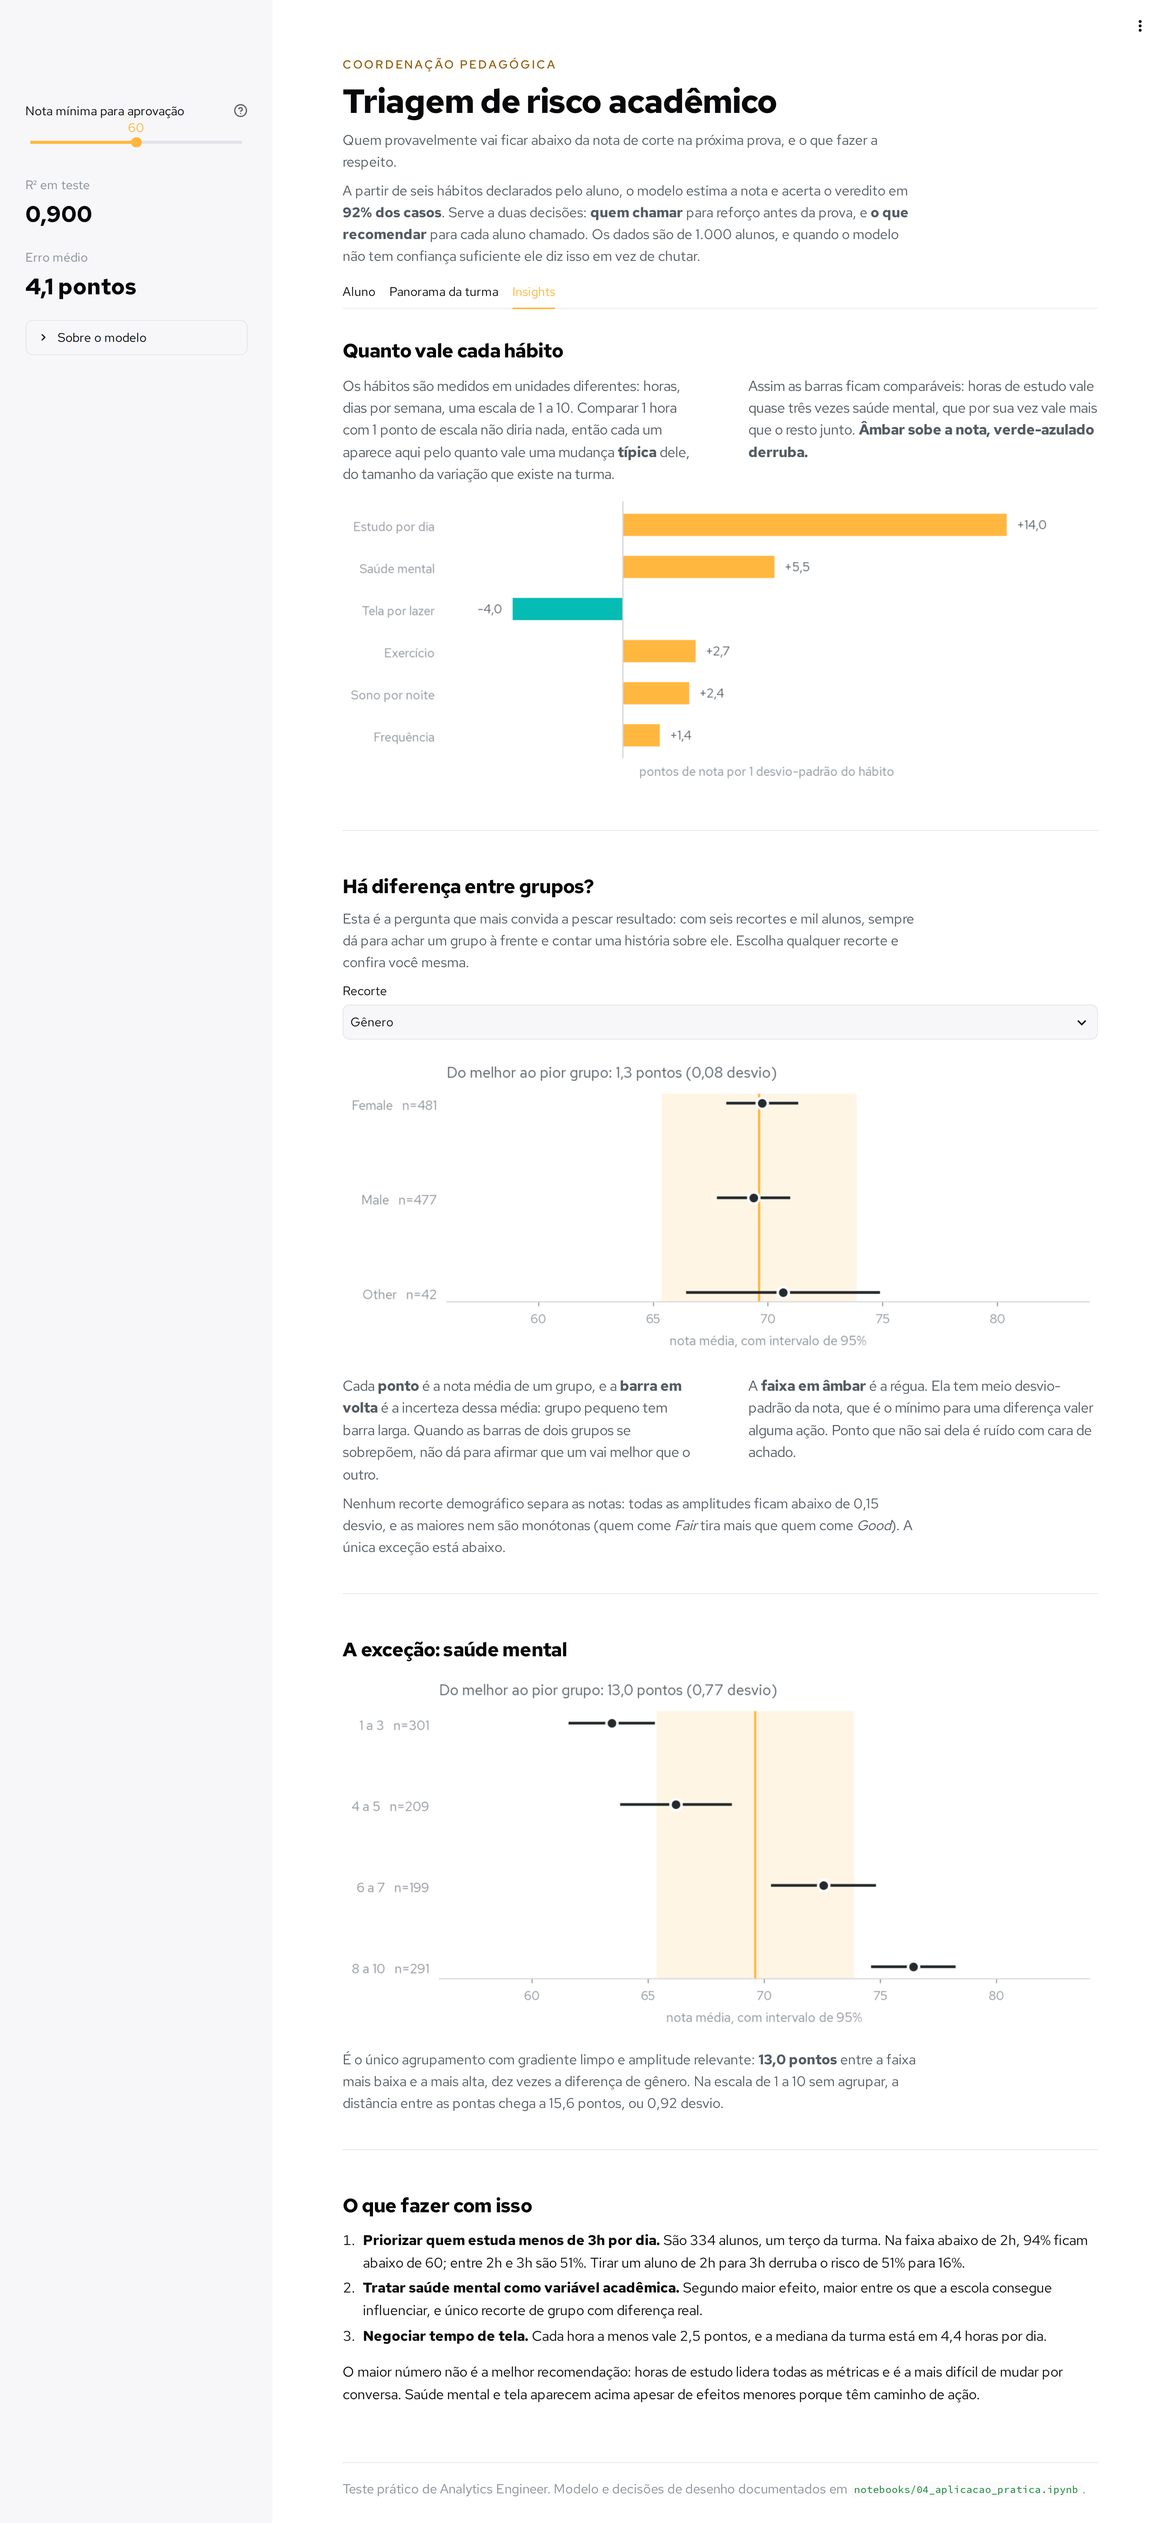
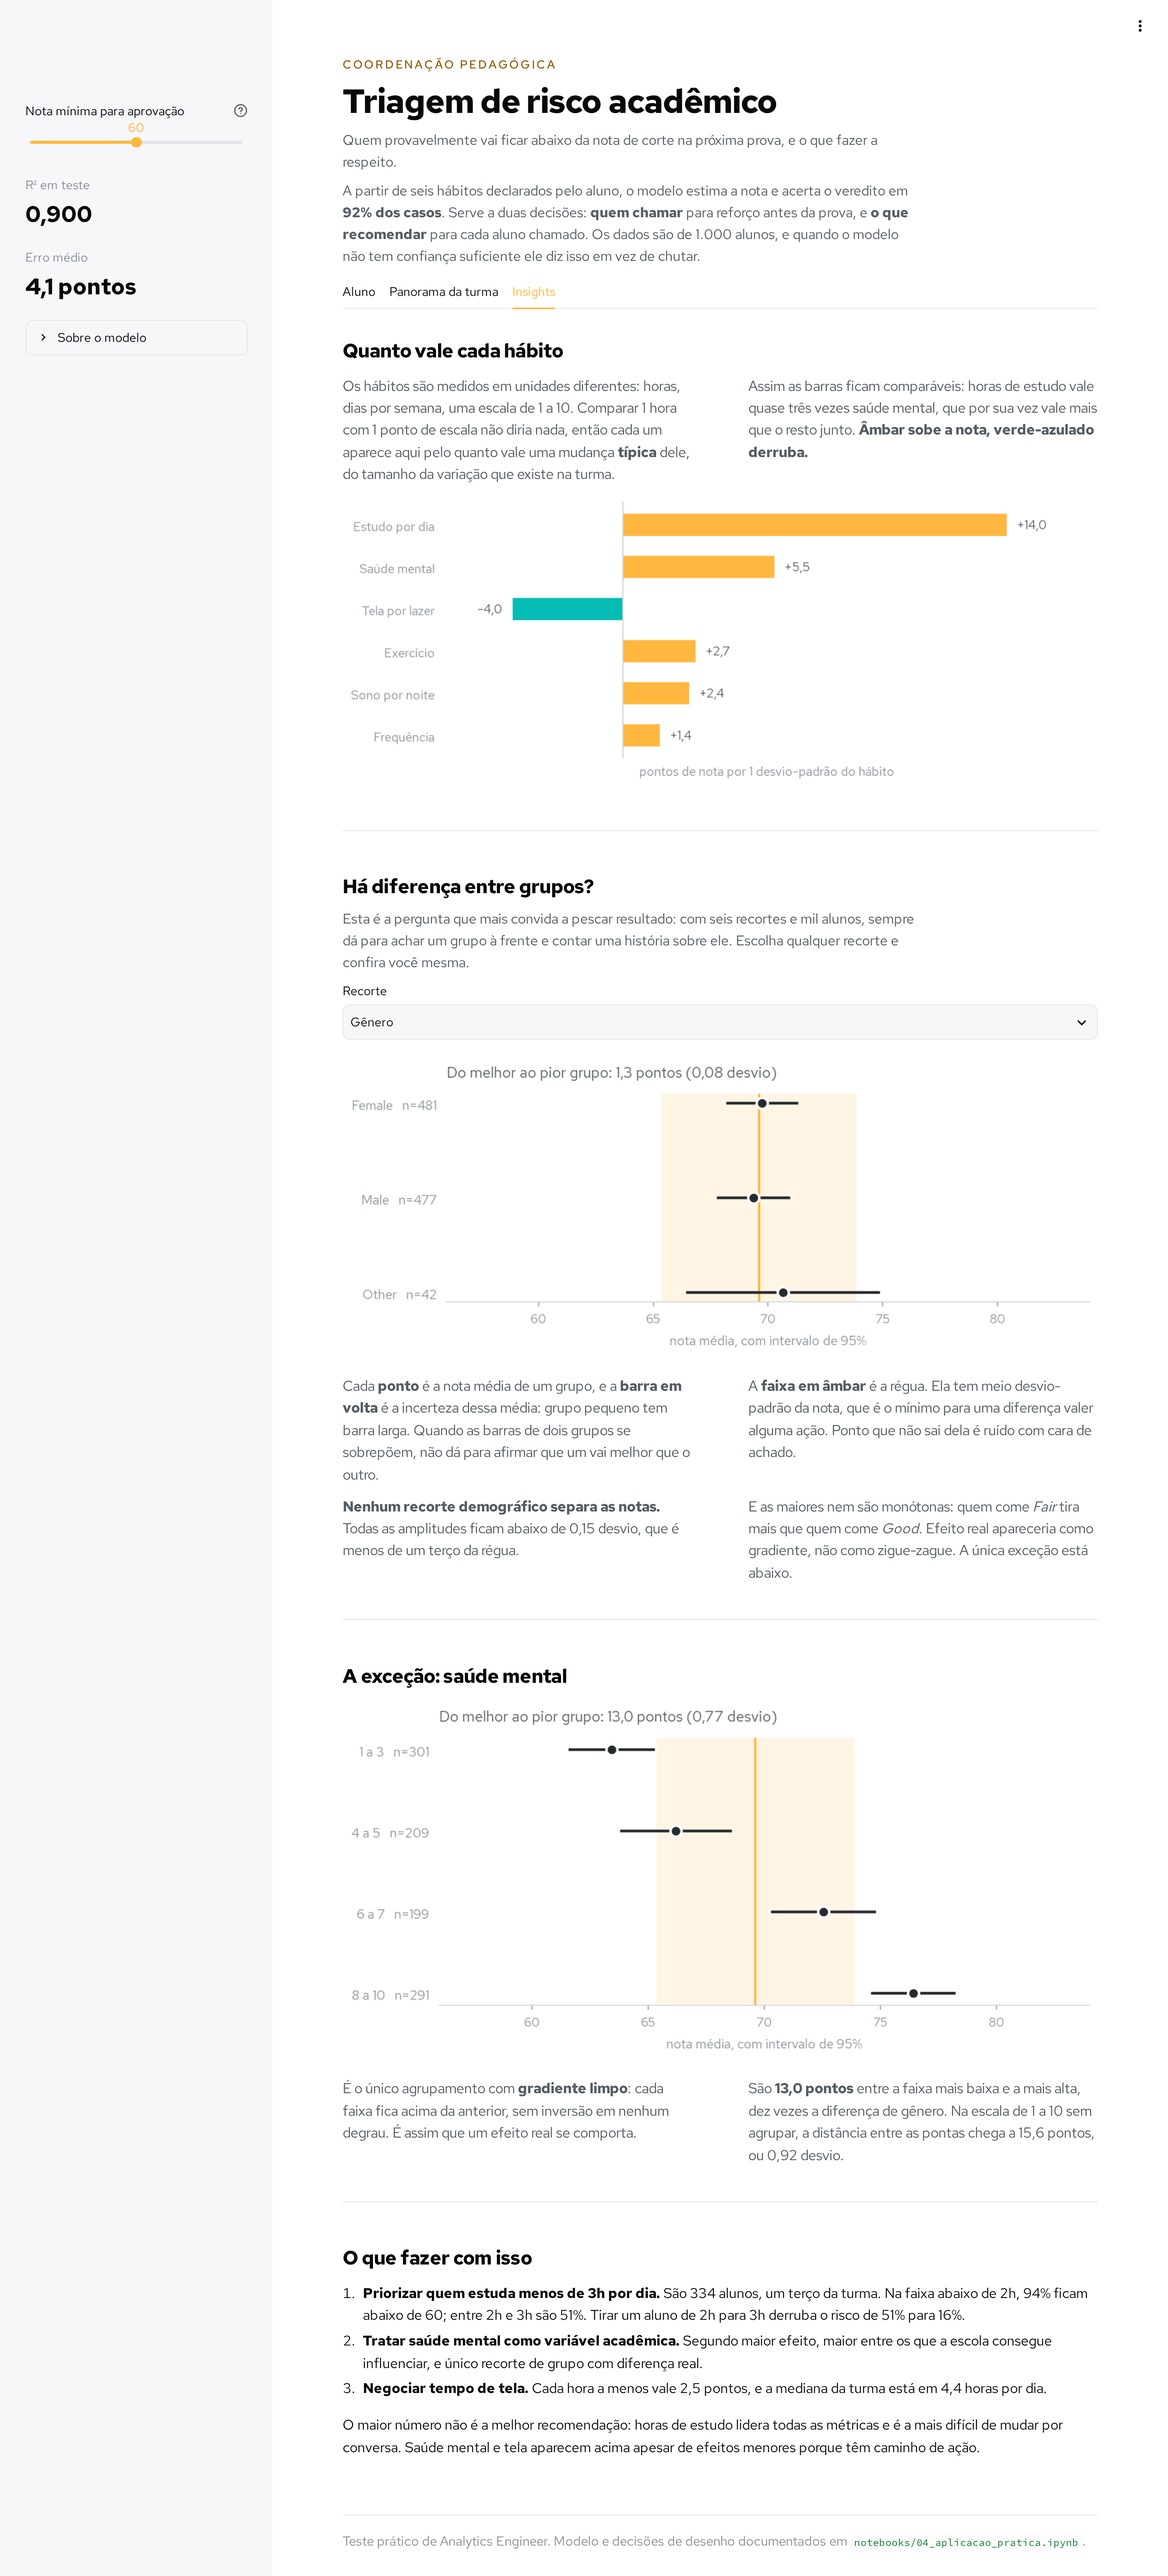
Alinha também as legendas do Insights
Duas ficaram para trás no commit anterior: a do comparador de recortes e a
da saúde mental. As duas seguiam com o limite de 62 caracteres de largura
embaixo de gráficos que ocupam a página inteira.

Agora usam o mesmo padrão de duas colunas das demais. As três abas ficaram
consistentes: introdução em medida estreita, legenda de gráfico na largura
da figura.

diff --git a/app.py b/app.py
@@ -902,13 +902,22 @@ with aba_insights:
             unsafe_allow_html=True,
         )
 
-    st.markdown(
-        '<p class="linhafina">Nenhum recorte demográfico separa as notas: todas as '
-        "amplitudes ficam abaixo de 0,15 desvio, e as maiores nem são monótonas "
-        "(quem come <em>Fair</em> tira mais que quem come <em>Good</em>). A única "
-        "exceção está abaixo.</p>",
-        unsafe_allow_html=True,
-    )
+    esq, dir_ = st.columns(2, gap="large")
+    with esq:
+        st.markdown(
+            '<div class="legenda"><p><strong>Nenhum recorte demográfico separa as '
+            "notas.</strong> Todas as amplitudes ficam abaixo de 0,15 desvio, que é "
+            "menos de um terço da régua.</p></div>",
+            unsafe_allow_html=True,
+        )
+    with dir_:
+        st.markdown(
+            '<div class="legenda"><p>E as maiores nem são monótonas: quem come '
+            "<em>Fair</em> tira mais que quem come <em>Good</em>. Efeito real "
+            "apareceria como gradiente, não como zigue-zague. A única exceção está "
+            "abaixo.</p></div>",
+            unsafe_allow_html=True,
+        )
 
     st.divider()
     st.markdown('<div class="secao">A exceção: saúde mental</div>',
@@ -922,13 +931,22 @@ with aba_insights:
         ),
         width="stretch",
     )
-    st.markdown(
-        '<p class="linhafina">É o único agrupamento com gradiente limpo e amplitude '
-        "relevante: <strong>13,0 pontos</strong> entre a faixa mais baixa e a mais "
-        "alta, dez vezes a diferença de gênero. Na escala de 1 a 10 sem agrupar, a "
-        "distância entre as pontas chega a 15,6 pontos, ou 0,92 desvio.</p>",
-        unsafe_allow_html=True,
-    )
+    esq, dir_ = st.columns(2, gap="large")
+    with esq:
+        st.markdown(
+            '<div class="legenda"><p>É o único agrupamento com <strong>gradiente '
+            "limpo</strong>: cada faixa fica acima da anterior, sem inversão em "
+            "nenhum degrau. É assim que um efeito real se comporta.</p></div>",
+            unsafe_allow_html=True,
+        )
+    with dir_:
+        st.markdown(
+            '<div class="legenda"><p>São <strong>13,0 pontos</strong> entre a faixa '
+            "mais baixa e a mais alta, dez vezes a diferença de gênero. Na escala de "
+            "1 a 10 sem agrupar, a distância entre as pontas chega a 15,6 pontos, ou "
+            "0,92 desvio.</p></div>",
+            unsafe_allow_html=True,
+        )
 
     st.divider()
     st.markdown('<div class="secao">O que fazer com isso</div>',
